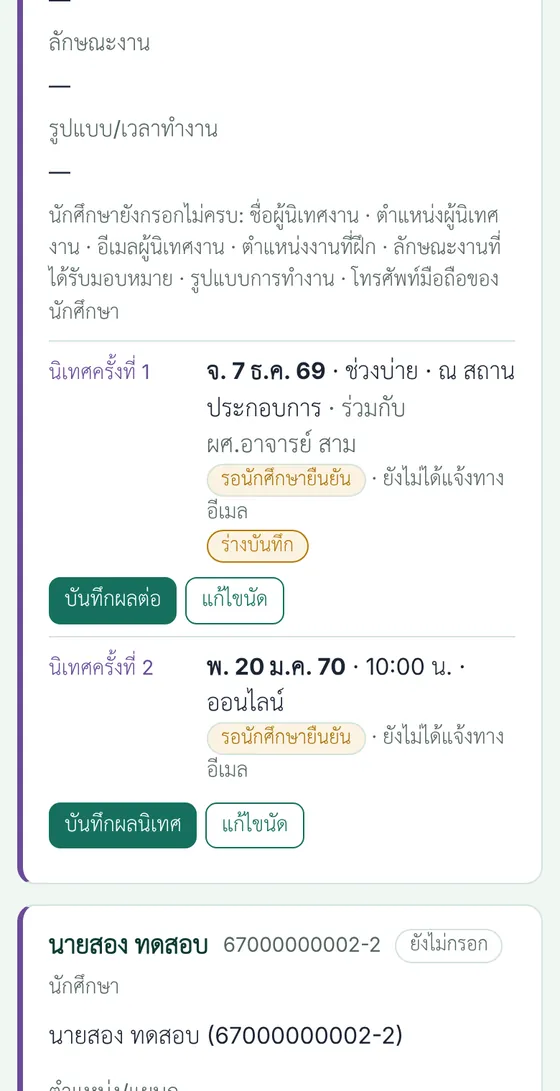
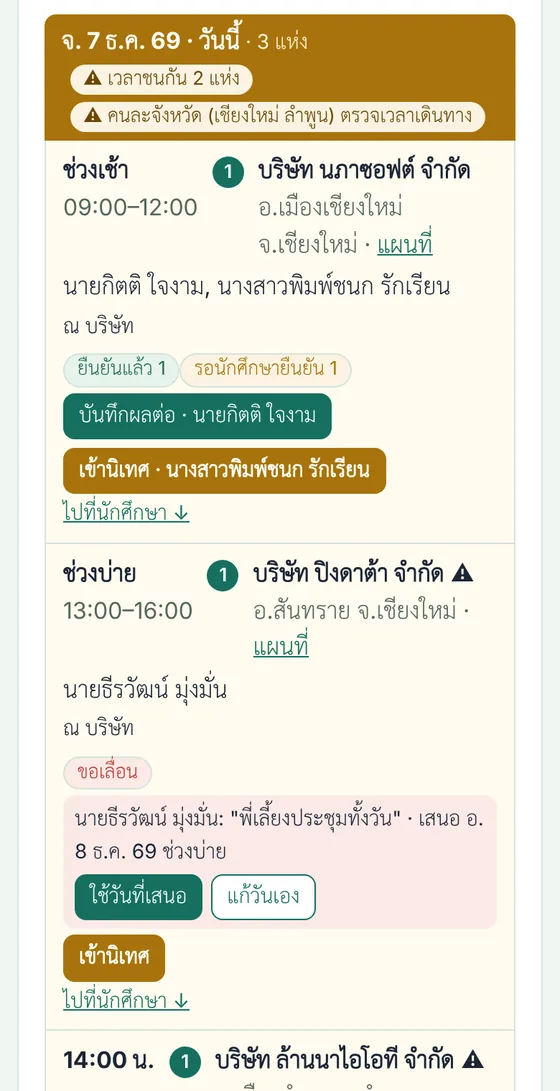
se-coop: คู่มือฉบับ 1.7 แผนนิเทศ 2 ครั้ง ตารางนิเทศ เตือนล่วงหน้า (ระบบ v1.4)
- คู่มืออาจารย์: รับนิเทศแล้วกำหนดวันทั้ง 2 ครั้งทันที, ยกเลิกรับนิเทศ
  (นักศึกษากลับไปรอ), ตารางนิเทศของฉัน รายการ/ปฏิทิน, คำเตือนนัดชน
  และต่างจังหวัด, แผนแจ้งทางอีเมลภายหลัง, ใช้วันที่นักศึกษาเสนอ,
  อีเมลเตือนล่วงหน้า 1 วัน, ปุ่ม "เข้านิเทศ" วันนิเทศ
- คู่มือการนิเทศ: ปุ่มของนัดเปลี่ยนตามวัน
- คู่มือนักศึกษา: เห็นวันนิเทศทั้ง 2 ครั้ง ป้าย "แผน อาจเปลี่ยน"
  ขอเลื่อนพร้อมเสนอวัน อีเมลเตือนล่วงหน้า
- ภาพใหม่ t11–t14 s9 และ t1 ใหม่ (ข้อมูลสมมติ) · ประวัติฉบับ 1.7 · ประกาศ

Claude-Session: https://claude.ai/code/session_01Hdhy4ZQDkcgj21GPA4PsBw

diff --git a/se-coop/teacher/index.html b/se-coop/teacher/index.html
@@ -39,24 +39,34 @@
       <li><h3>เข้าระบบ</h3><div class="when">อีเมล @rmutl.ac.th ที่หลักสูตรลงทะเบียนไว้</div>
         <ul><li>กรอกอีเมลที่หน้าเข้าระบบ ระบบส่งลิงก์ทางอีเมล ไม่ต้องใช้รหัสผ่าน เครื่องเดิมจำการเข้าระบบไว้ 14 วัน</li></ul></li>
       <li><h3>เลือกนักศึกษาที่จะนิเทศ</h3><div class="when">ภายใน 11 พ.ย. 2569</div>
-        <ul><li>แท็บ "เลือกนักศึกษา" แสดงนักศึกษาทุกคนจัดกลุ่มตามสถานประกอบการ กด "รับนิเทศ" แล้วยืนยัน หรือ "รับทั้งบริษัท"</li><li>ปุ่ม "รับนิเทศ" เป็นสีเขียวเมื่อนักศึกษากรอกข้อมูลครบแล้ว ถ้ายังไม่ครบ ปุ่มเป็นสีเทาและขึ้น "รอนักศึกษากรอกข้อมูล" ปุ่ม "รับทั้งบริษัท" เป็นสีเขียวเมื่อทุกคนในบริษัทนั้นกรอกครบ กด "รีเฟรชสถานะล่าสุด" เพื่อดูสถานะใหม่ ถ้าจำเป็นต้องรับก่อน ให้ผู้ประสานงานกำหนดให้</li><li>เมื่อยืนยันแล้ว อาจารย์ท่านอื่นเลือกคนนั้นไม่ได้ ท่านยกเลิกได้เอง หรือให้ผู้ประสานงานเปลี่ยนให้ นักศึกษาจะได้อีเมลแจ้งทุกครั้งที่รับ เปลี่ยน หรือยกเลิกอาจารย์นิเทศ</li><li>ชื่อ รหัส และบริษัทเห็นได้ทุกคน เบอร์โทรและ LINE ขึ้นข้างชื่อเฉพาะนักศึกษาที่ท่านรับนิเทศแล้ว แตะเพื่อโทรหรือเปิด LINE ได้ทันที</li></ul></li>
-      <li><h3>กรอกวันนิเทศทั้ง 2 ครั้ง</h3><div class="when">ภายใน 11 พ.ย. 2569 · ครั้งที่ 1: 1–30 ธ.ค. 2569 · ครั้งที่ 2: 4 ม.ค. – 26 ก.พ. 2570</div>
-        <ul><li>แท็บ "นักศึกษาของฉัน" กด "กำหนดวัน" เลือกวันที่ ช่วงเวลา (เช้า บ่าย หรือระบุเวลา) และรูปแบบ (ณ สถานประกอบการ หรือออนไลน์)</li><li>ติ๊ก "ใช้วันเดียวกันกับ" เพื่อกรอกครั้งเดียวสำหรับนักศึกษาทุกคนที่ท่านนิเทศในบริษัทเดียวกัน</li><li>มีอาจารย์ไปด้วย เลือก "อาจารย์ร่วมนิเทศ" ชื่อจะอยู่ในแผนการนิเทศ (อาจารย์นิเทศ 2) และตารางคำสั่ง</li><li>คณะขอแผนทั้ง 2 รอบ ครั้งที่ 2 เลือกนิเทศออนไลน์ได้ถ้าเหมาะสม วันนอกรอบที่คณะกำหนดต้องติ๊กยืนยันและเขียนเหตุผล</li></ul></li>
-      <li><h3>แจ้งนัดและรอนักศึกษายืนยัน</h3><div class="when">ติ๊ก "ส่งอีเมลแจ้ง" เมื่อนัดจริง</div>
-        <ul><li>ช่อง "ส่งอีเมลแจ้งนักศึกษาและผู้นิเทศงานทันที" ติ๊กไว้ให้แล้ว ถ้ายังเป็นแค่แผนส่งคณะ ยังไม่ได้คุยกับบริษัท ให้เอาเครื่องหมายออก แล้วค่อยติ๊กเมื่อนัดจริง</li><li>อีเมลแนบไฟล์ปฏิทิน (.ics) ผู้นิเทศงานคนเดียวกันได้ฉบับเดียว ท่านได้สำเนา และเมื่อผู้รับกดตอบกลับ อีเมลจะถึงท่านโดยตรง ระบบส่งซ้ำเฉพาะเมื่อวันเวลาเปลี่ยน และแจ้งยกเลิกเมื่อลบนัด</li><li>นักศึกษาถามผู้นิเทศงานแล้วกด "สะดวกตามนี้" หรือ "ขอเลื่อน" พร้อมเหตุผล ท่านจะได้อีเมลทั้งสองกรณี ถ้าขอเลื่อนจะเห็นในหน้าสิ่งที่ต้องทำด้วย แก้วันแล้วระบบแจ้งทุกคนใหม่</li><li>ท่านได้อีเมลเมื่อนักศึกษาแก้เบอร์โทร LINE หรือข้อมูลผู้นิเทศงาน และเมื่อนักศึกษาแจ้งปัญหาการฝึก (ส่งสำเนาถึงผู้ประสานงาน)</li><li>ติดต่อนักศึกษาจากเบอร์โทรและ LINE ข้างชื่อในแท็บ "นักศึกษาของฉัน" (ถ้านักศึกษากรอก)</li></ul></li>
+        <ul><li>แท็บ "เลือกนักศึกษา" แสดงนักศึกษาทุกคนจัดกลุ่มตามสถานประกอบการ พร้อมวันนิเทศครั้งที่ 1 และ 2 กด "รับนิเทศ" แล้วยืนยัน หรือ "รับทั้งบริษัท"</li><li>ปุ่ม "รับนิเทศ" เป็นสีเขียวเมื่อนักศึกษากรอกข้อมูลครบแล้ว ถ้ายังไม่ครบ ปุ่มเป็นสีเทาและขึ้น "รอนักศึกษากรอกข้อมูล" ปุ่ม "รับทั้งบริษัท" เป็นสีเขียวเมื่อทุกคนในบริษัทนั้นกรอกครบ กด "รีเฟรชสถานะล่าสุด" เพื่อดูสถานะใหม่ ถ้าจำเป็นต้องรับก่อน ให้ผู้ประสานงานกำหนดให้</li><li>ยืนยันแล้วระบบแจ้งนักศึกษาทางอีเมล และ<b>พาไปแท็บ "นักศึกษาของฉัน" ที่บริษัทนั้น พร้อมเปิดฟอร์มกำหนดวันนิเทศทั้ง 2 ครั้ง</b> (ภาพที่ 1) อาจารย์ท่านอื่นเลือกคนนั้นไม่ได้</li><li>ชื่อ รหัส บริษัท และวันนิเทศเห็นได้ทุกคน เบอร์โทรและ LINE ขึ้นข้างชื่อเฉพาะนักศึกษาที่ท่านรับนิเทศแล้ว แตะเพื่อโทรหรือเปิด LINE ได้ทันที</li></ul></li>
+      <li><h3>กดผิดหรือไปนิเทศไม่ได้: ยกเลิกรับนิเทศ</h3><div class="when">นักศึกษากลับไปรออาจารย์ท่านอื่น</div>
+        <ul><li>กด "กดผิด? ยกเลิกรับนิเทศ" ที่ขึ้นหลังรับ หรือ "ยกเลิกรับนิเทศ" ในแท็บเลือกนักศึกษา หรือใต้ "งาน ผู้นิเทศงาน และวันที่สะดวก" ของนักศึกษา แล้วยืนยัน</li><li>ระบบล้างวันนิเทศที่ท่านกรอกไว้ แจ้งนักศึกษาทางอีเมล และแจ้งยกเลิกถึงผู้นิเทศงานถ้าเคยส่งนัดไปแล้ว นักศึกษากลับไปรอ อาจารย์ท่านอื่นรับแทนแล้วนัดใหม่ตามขั้นตอนเดิม</li><li>ถ้าบันทึกผลการนิเทศของนักศึกษาคนนั้นแล้ว ยกเลิกเองไม่ได้ ติดต่อผู้ประสานงาน (บันทึกไม่หาย)</li></ul></li>
+      <li><h3>กรอกวันนิเทศทั้ง 2 ครั้ง</h3><div class="when">ภายใน 11 พ.ย. 2569 · ครั้งที่ 1: 1–30 ธ.ค. 2569 · ครั้งที่ 2: 4 ม.ค. – 26 ก.พ. 2570 · ภาพที่ 1–2</div>
+        <ul><li>ฟอร์มกำหนดวันมีครั้งที่ 1 และ 2 ในหน้าเดียว เลือกวันที่ ช่วงเวลา (เช้า บ่าย หรือระบุเวลา) และรูปแบบ (ณ สถานประกอบการ หรือออนไลน์) แล้วกด "บันทึกวันนิเทศ" ครั้งเดียว เปิดฟอร์มอีกครั้งได้จากปุ่ม "กำหนดวันนิเทศ 2 ครั้ง" หรือ "แก้วันนิเทศ" ที่หัวบริษัท</li><li><b>ครั้งที่ 1 ต้องกรอก ครั้งที่ 2 กรอกตามแผนไว้ก่อน</b> เพราะคณะใช้แผนทั้ง 2 ครั้งตั้งงบและออกคำสั่ง ไม่ต้องรอนักศึกษายืนยัน เปลี่ยนวันภายหลังได้ ถ้ายังเว้นครั้งที่ 2 ระบบเตือนในสิ่งที่ต้องทำ</li><li>แตะปุ่มวันในสัปดาห์เพื่อเลือกเร็ว ปุ่มสีเหลืองคือวันที่ท่านมีนัดแล้ว ระบบเตือนเมื่อช่วงเวลาชนกับบริษัทอื่น หรือวันเดียวกันอยู่คนละจังหวัด (บันทึกได้ถ้าตั้งใจ) กล่องสีม่วงคือวันที่นักศึกษาแจ้งว่าสะดวก</li><li>ติ๊ก "ใช้กับ" เพื่อใช้วันเดียวกันกับนักศึกษาทุกคนที่ท่านนิเทศในบริษัทเดียวกัน</li><li>มีอาจารย์ไปด้วย เลือก "อาจารย์ร่วมนิเทศ" ชื่อจะอยู่ในแผนการนิเทศ (อาจารย์นิเทศ 2) และตารางคำสั่ง และนัดจะขึ้นในตารางนิเทศของท่านนั้นด้วย</li><li>ครั้งที่ 2 เลือกนิเทศออนไลน์ได้ถ้าเหมาะสม วันนอกรอบที่คณะกำหนดต้องติ๊กยืนยันและเขียนเหตุผล</li></ul></li>
+      <li><h3>ดูตารางนิเทศของฉัน</h3><div class="when">บนสุดของแท็บ "นักศึกษาของฉัน" · ภาพที่ 3–4</div>
+        <ul><li>ตารางเรียงตามวัน บอกเวลา บริษัท อำเภอและจังหวัด นักศึกษา รูปแบบ และสถานะ รวมนัดที่ท่านเป็นอาจารย์ร่วมนิเทศ ใช้วางแผนไปหลายบริษัทในวันเดียว เช่น เช้าบริษัทหนึ่ง บ่ายอีกบริษัท หรือวันที่ต้องไปต่างจังหวัด</li><li>เลือกดูทั้งหมด ครั้งที่ 1 หรือครั้งที่ 2 และสลับเป็น "ปฏิทิน" รายเดือน แตะวันเพื่อดูรายละเอียด วันสีเทาอยู่นอกช่วงที่คณะกำหนด</li><li>สถานะนัด: <b>แผน (ยังไม่แจ้ง)</b> · <b>รอนักศึกษายืนยัน</b> · <b>ยืนยันแล้ว</b> · <b>ขอเลื่อน</b> · <b>เปลี่ยนวันแล้ว ยังไม่แจ้ง</b> · <b>นิเทศแล้ว</b> รายการที่ยังไม่กำหนดวันอยู่ท้ายตาราง</li></ul></li>
+      <li><h3>แจ้งนัดและรอนักศึกษายืนยัน</h3><div class="when">ส่งอีเมลเมื่อนัดกับบริษัทแล้ว</div>
+        <ul><li>ค่าเริ่มต้น ครั้งที่ 1 ติ๊ก "ส่งอีเมลแจ้งนัดถึงนักศึกษาและผู้นิเทศงานทันที" ไว้ ครั้งที่ 2 เป็นแผน (ไม่ส่ง) นักศึกษาเห็นในระบบเป็น "แผน อาจเปลี่ยน" เมื่อยืนยันกับบริษัทแล้วกด <b>"แจ้งนัดทางอีเมล"</b> ในตารางหรือใต้นัด ถ้ายังไม่ได้คุยกับบริษัท ให้เอาเครื่องหมายครั้งที่ 1 ออกได้</li><li>อีเมลแนบไฟล์ปฏิทิน (.ics) ผู้นิเทศงานคนเดียวกันได้ฉบับเดียว ท่านได้สำเนา และเมื่อผู้รับกดตอบกลับ อีเมลจะถึงท่านโดยตรง ระบบส่งซ้ำเฉพาะเมื่อวันเวลาเปลี่ยน และแจ้งยกเลิกเมื่อลบนัด</li><li>นักศึกษาถามผู้นิเทศงานแล้วกด "สะดวกตามนี้" หรือ "ขอเลื่อน" พร้อมเหตุผล และเสนอวันที่ผู้นิเทศงานสะดวกได้ ท่านได้อีเมลทั้งสองกรณี ถ้าเสนอวันมา กด <b>"ใช้วันที่เสนอ"</b> ระบบเปลี่ยนวันและแจ้งนักศึกษากับผู้นิเทศงานให้ หรือกด "แก้วันเอง"</li><li>ท่านได้อีเมลเมื่อนักศึกษาแก้เบอร์โทร LINE หรือข้อมูลผู้นิเทศงาน และเมื่อนักศึกษาแจ้งปัญหาการฝึก (ส่งสำเนาถึงผู้ประสานงาน)</li><li>ติดต่อนักศึกษาจากเบอร์โทรและ LINE ข้างชื่อในแท็บ "นักศึกษาของฉัน" (ถ้านักศึกษากรอก)</li></ul></li>
+      <li><h3>อีเมลเตือนล่วงหน้า 1 วัน</h3><div class="when">ระบบส่งเองทุกวันประมาณ 16:00 น.</div>
+        <ul><li>ก่อนวันนิเทศ 1 วัน ระบบส่งอีเมลเตือนถึงนักศึกษาและผู้นิเทศงาน (เฉพาะนัดที่แจ้งทางอีเมลแล้ว) และส่งสรุปนัดของวันพรุ่งนี้ถึงท่าน พร้อมแผนที่ เบอร์นักศึกษา และผู้นิเทศงาน</li><li>นัดที่ยังเป็นแผนเตือนเฉพาะท่าน นัดที่นักศึกษาขอเลื่อนอยู่ เลื่อนไปแล้ว หรือลบแล้ว ระบบไม่เตือน</li></ul></li>
       <li><h3>เอกสารส่งคณะ</h3><div class="when">ผู้ประสานงานส่งคณะ 12 พ.ย. 2569</div>
         <ul><li>ระบบสร้างแผนการนิเทศตามตารางของคณะ (Excel) แบบเสนองบประมาณการนิเทศ (Word) และตารางแนบท้ายคำสั่งแต่งตั้ง จากข้อมูลในระบบโดยตรง ไม่ต้องกรอก Google Form</li><li>งบประมาณคิดจากการนิเทศ ณ สถานประกอบการ: ในเขตอำเภอเมืองเชียงใหม่เบิกค่ารถโดยสาร นอกเขตเบิกค่าชดเชยน้ำมันตามระยะทาง ผู้ประสานงานจะขอหมายเลขทะเบียนรถจากอาจารย์ที่ขับรถไปนิเทศนอกเขต</li><li>เอกสารมีชื่ออาจารย์ นักศึกษา บริษัท และวันนิเทศ ไม่มีเบอร์หรืออีเมล</li></ul></li>
-      <li><h3>บันทึกผลการนิเทศ</h3><div class="when">ระหว่างนิเทศหรือภายใน 3 วันหลังนิเทศ · ภาพที่ 1–3</div>
-        <ul><li>แท็บ "นักศึกษาของฉัน" กด "บันทึกผลนิเทศ" แบบบันทึกมี 5 ส่วน: ก รูป ไฟล์ ลิงก์ · ข คุยกับนักศึกษา · ค คุยกับผู้นิเทศงาน (แตะคะแนน 7 ด้าน) · ง อาจารย์สรุป · จ คะแนนการนิเทศ 5 ข้อ</li><li>ส่วนใหญ่แตะเลือก ไม่มีในรายการพิมพ์เพิ่มเองได้ กด "บันทึกร่าง" ไว้ก่อนได้ กด "บันทึกเสร็จ" เมื่อช่องบังคับครบ แก้ได้จนปิดภาค</li><li>นิเทศหลายคนบริษัทเดียวกัน ติ๊กชื่อเพื่อนท้ายแบบบันทึก รูปและความเห็นของบริษัทจะใช้ร่วมกัน</li><li>ขั้นตอนเต็ม คำถามที่ใช้คุย และใครเห็นอะไร อยู่ใน<a href="visit.html">คู่มือการนิเทศและแบบบันทึก</a></li></ul></li>
+      <li><h3>บันทึกผลการนิเทศ</h3><div class="when">ระหว่างนิเทศหรือภายใน 3 วันหลังนิเทศ · ภาพที่ 5–7</div>
+        <ul><li>วันนิเทศ ปุ่มใต้นัดและในตารางนิเทศเป็น <b>"เข้านิเทศ"</b> (สีทอง) กดเพื่อดูคำถามและกรอกแบบบันทึกระหว่างคุย หรือมากรอกภายหลัง (ภาพที่ 5) ก่อนวันนิเทศปุ่มเป็น "ดูคำถาม/แบบบันทึก" หลังวันเป็น "บันทึกผลนิเทศ" ผู้ประสานงานเห็นว่าอาจารย์ท่านใดส่งบันทึกแล้ว</li><li>แบบบันทึกมี 5 ส่วน: ก รูป ไฟล์ ลิงก์ · ข คุยกับนักศึกษา · ค คุยกับผู้นิเทศงาน (แตะคะแนน 7 ด้าน) · ง อาจารย์สรุป · จ คะแนนการนิเทศ 5 ข้อ</li><li>ส่วนใหญ่แตะเลือก ไม่มีในรายการพิมพ์เพิ่มเองได้ กด "บันทึกร่าง" ไว้ก่อนได้ กด "บันทึกเสร็จ" เมื่อช่องบังคับครบ แก้ได้จนปิดภาค</li><li>นิเทศหลายคนบริษัทเดียวกัน ติ๊กชื่อเพื่อนท้ายแบบบันทึก รูปและความเห็นของบริษัทจะใช้ร่วมกัน</li><li>ขั้นตอนเต็ม คำถามที่ใช้คุย และใครเห็นอะไร อยู่ใน<a href="visit.html">คู่มือการนิเทศและแบบบันทึก</a></li></ul></li>
       <li><h3>ดูผลการนิเทศของทุกคน</h3><div class="when">แท็บ "ผลการนิเทศ"</div>
         <ul><li>อาจารย์ทุกท่านดูผลการนิเทศ รูป และไฟล์ของนักศึกษาทุกคนได้ เพื่อเรียนรู้จากกันและปรับปรุงหลักสูตร (ไม่มีข้อมูลติดต่อและบันทึกลับ)</li><li>ผู้ประสานงานส่งออกผลการนิเทศเป็น Excel สำหรับรายงาน AUN-QA</li></ul></li>
     </ol>
-    <p class="small muted">ภาพตัวอย่างใช้ข้อมูลสมมติ ภาพเพิ่มเติมอยู่ในคู่มือการนิเทศ</p>
+    <p class="small muted">ภาพตัวอย่างใช้ข้อมูลสมมติ (ชื่อ บริษัท เบอร์โทร) ภาพแบบบันทึกเพิ่มเติมอยู่ในคู่มือการนิเทศ</p>
     <div class="shots" tabindex="0" aria-label="ภาพหน้าจอตัวอย่าง">
-      <figure><img src="../assets/img/guide/t1-mine.webp" width="560" height="1091" loading="lazy" alt="การ์ดนักศึกษามีปุ่มบันทึกผลนิเทศใต้นัด"><figcaption><b>1</b> กด "บันทึกผลนิเทศ"</figcaption></figure>
-      <figure><img src="../assets/img/guide/t3-photos.webp" width="560" height="1091" loading="lazy" alt="ส่วน ก ถ่ายรูป แนบไฟล์ และใส่ลิงก์"><figcaption><b>2</b> ถ่ายรูปจากมือถือ</figcaption></figure>
-      <figure><img src="../assets/img/guide/t5-mentor.webp" width="560" height="1091" loading="lazy" alt="ส่วน ค แตะคะแนน 1 ถึง 5 จากผู้นิเทศงาน"><figcaption><b>3</b> แตะคะแนนจากพี่เลี้ยง</figcaption></figure>
-      <figure><img src="../assets/img/guide/t9-results.webp" width="560" height="1091" loading="lazy" alt="แท็บผลการนิเทศ"><figcaption><b>4</b> แท็บผลการนิเทศ</figcaption></figure>
+      <figure><img src="../assets/img/guide/t12-plan.webp" width="560" height="1091" loading="lazy" alt="หลังรับนิเทศ ฟอร์มกำหนดวันนิเทศครั้งที่ 1 เปิดให้ทันที มีปุ่มกดผิดยกเลิกรับนิเทศ ช่องใช้กับเพื่อนบริษัทเดียวกัน และวันที่นักศึกษาสะดวก"><figcaption><b>1</b> รับแล้วกำหนดวันทันที</figcaption></figure>
+      <figure><img src="../assets/img/guide/t14-conflict.webp" width="560" height="1091" loading="lazy" alt="นิเทศครั้งที่ 2 ปุ่มวันในสัปดาห์ วันที่มีนัดแล้วเป็นสีเหลือง และคำเตือนว่าช่วงบ่ายชนกับอีกบริษัท"><figcaption><b>2</b> ครั้งที่ 2 และคำเตือนนัดชน</figcaption></figure>
+      <figure><img src="../assets/img/guide/t11-schedule.webp" width="560" height="1091" loading="lazy" alt="ตารางนิเทศของฉัน แสดงจำนวนที่กำหนดแล้ว และรายการเรียงตามวัน พร้อมคำเตือนคนละจังหวัด"><figcaption><b>3</b> ตารางนิเทศของฉัน</figcaption></figure>
+      <figure><img src="../assets/img/guide/t13-calendar.webp" width="560" height="1091" loading="lazy" alt="ตารางนิเทศแบบปฏิทินเดือนธันวาคม แตะวันที่ 7 แสดงนัดของวันนั้นด้านล่าง"><figcaption><b>4</b> มุมมองปฏิทิน</figcaption></figure>
+      <figure><img src="../assets/img/guide/t1-mine.webp" width="560" height="1091" loading="lazy" alt="วันนิเทศ ตารางแสดงปุ่มเข้านิเทศสีทองของนักศึกษาแต่ละคน"><figcaption><b>5</b> วันนิเทศ กด "เข้านิเทศ"</figcaption></figure>
+      <figure><img src="../assets/img/guide/t3-photos.webp" width="560" height="1091" loading="lazy" alt="ส่วน ก ถ่ายรูป แนบไฟล์ และใส่ลิงก์"><figcaption><b>6</b> ถ่ายรูปจากมือถือ</figcaption></figure>
+      <figure><img src="../assets/img/guide/t5-mentor.webp" width="560" height="1091" loading="lazy" alt="ส่วน ค แตะคะแนน 1 ถึง 5 จากผู้นิเทศงาน"><figcaption><b>7</b> แตะคะแนนจากพี่เลี้ยง</figcaption></figure>
+      <figure><img src="../assets/img/guide/t9-results.webp" width="560" height="1091" loading="lazy" alt="แท็บผลการนิเทศ"><figcaption><b>8</b> แท็บผลการนิเทศ</figcaption></figure>
     </div>
 
     <h2>ในวันนิเทศ</h2>

diff --git a/se-coop/student/index.html b/se-coop/student/index.html
@@ -65,7 +65,7 @@
       <li><h3>ติ๊กยินยอม แล้วกด "บันทึก"</h3><div class="when">ภาพที่ 5</div>
         <ul><li>ต้องติ๊กช่องรับทราบการคุ้มครองข้อมูลส่วนบุคคลก่อนจึงบันทึกได้</li><li>บันทึกแบบยังไม่ครบได้ กลับมากรอกต่อได้ทุกเมื่อ ถ้ามีช่องผิดรูปแบบ ระบบจะบอกด้วยตัวอักษรสีแดง</li></ul></li>
       <li><h3>ตรวจว่าขึ้น "ข้อมูลครบแล้ว"</h3><div class="when">ภาพที่ 6</div>
-        <ul><li>เมื่อครบ ช่อง "สิ่งที่ต้องทำ" จะขึ้นป้ายสีเขียว "เรียบร้อย" เท่านี้ก็เสร็จงานของตอนนี้</li><li>อาจารย์เลือกรับนิเทศได้เฉพาะนักศึกษาที่ข้อมูลครบแล้ว เมื่อมีอาจารย์รับ เปลี่ยน หรือยกเลิก คุณจะได้อีเมลแจ้ง</li><li>ชื่ออาจารย์นิเทศและวันนิเทศจะแสดงในหน้าเดียวกันเมื่ออาจารย์กรอกแล้ว กด "รีเฟรช" ในกล่องอาจารย์นิเทศและกำหนดการเพื่อดูข้อมูลล่าสุด</li></ul></li>
+        <ul><li>เมื่อครบ ช่อง "สิ่งที่ต้องทำ" จะขึ้นป้ายสีเขียว "เรียบร้อย" เท่านี้ก็เสร็จงานของตอนนี้</li><li>อาจารย์เลือกรับนิเทศได้เฉพาะนักศึกษาที่ข้อมูลครบแล้ว เมื่อมีอาจารย์รับ เปลี่ยน หรือยกเลิก คุณจะได้อีเมลแจ้ง</li><li>ชื่ออาจารย์นิเทศและวันนิเทศทั้ง 2 ครั้งจะแสดงในหน้าเดียวกันเมื่ออาจารย์กรอกแล้ว กด "รีเฟรช" ในกล่องอาจารย์นิเทศและกำหนดการเพื่อดูข้อมูลล่าสุด ถ้าอาจารย์ยกเลิกรับนิเทศ คุณจะได้อีเมลและรออาจารย์ท่านอื่นรับแทน</li></ul></li>
     </ol>
     <p class="small muted">ภาพตัวอย่างใช้ข้อมูลสมมติ เลื่อนดูภาพถัดไปได้</p>
     <div class="shots" tabindex="0" aria-label="ภาพหน้าจอตัวอย่าง">
@@ -83,7 +83,7 @@
       <li><h3>เริ่มฝึกและกรอกข้อมูล</h3><div class="when">2–11 พ.ย. 2569 · สัปดาห์ที่ 1–2</div>
         <ul><li>กรอกข้อมูลการฝึกใน SE-COOP ให้ครบภายใน 11 พ.ย.</li><li>เริ่มจดบันทึกสั้น ๆ ทุกสัปดาห์: งานที่ทำ เทคโนโลยีที่ใช้ ปัญหาและวิธีแก้ และเก็บภาพหน้าจอผลงานที่บริษัทอนุญาต ใช้ทำรายงานและโปสเตอร์ปลายภาค</li></ul></li>
       <li><h3>อาจารย์นัดนิเทศ ยืนยันหรือขอเลื่อน</h3><div class="when">12–30 พ.ย. 2569 · สัปดาห์ที่ 2–4</div>
-        <ul><li>เมื่ออาจารย์นัดแล้ว คุณและผู้นิเทศงานจะได้อีเมล "[SE-COOP] นัดนิเทศ" พร้อมไฟล์ปฏิทิน และเห็นนัดในระบบ SE-COOP</li><li>ถามผู้นิเทศงานว่าสะดวกไหม แล้วเข้าระบบกด <b>"สะดวกตามนี้"</b> หรือ <b>"ขอเลื่อน"</b> พร้อมเหตุผลและวันที่สะดวก ระบบส่งอีเมลถึงอาจารย์ทั้งสองกรณี แจ้งอาจารย์ทาง LINE ด้วยก็ได้</li><li>อาจารย์แก้วันแล้วระบบจะแจ้งใหม่ ให้กดยืนยันอีกครั้ง</li><li>ถ้าข้อมูลเปลี่ยน เช่น ย้ายทีม เปลี่ยนพี่เลี้ยง ทำงานทางไกล ให้แก้ในระบบ เมื่อแก้เบอร์โทร LINE หรือข้อมูลผู้นิเทศงาน ระบบแจ้งอาจารย์นิเทศทางอีเมลให้</li></ul></li>
+        <ul><li>อาจารย์กรอกวันนิเทศทั้ง 2 ครั้งตามแผนที่ส่งคณะ คุณเห็นทั้ง 2 ครั้งในระบบ ครั้งที่ยังไม่ได้นัดกับบริษัทจะมีป้าย <b>"แผน อาจเปลี่ยน"</b> (ภาพที่ 9)</li><li>เมื่ออาจารย์นัดจริง คุณและผู้นิเทศงานจะได้อีเมล "[SE-COOP] นัดนิเทศ" พร้อมไฟล์ปฏิทิน และป้ายเปลี่ยนเป็น "นัดแล้ว รอคุณยืนยัน"</li><li>ถามผู้นิเทศงานว่าสะดวกไหม แล้วเข้าระบบกด <b>"สะดวกตามนี้"</b> หรือ <b>"ขอเลื่อน"</b> ขอเลื่อนให้เลือกวันและช่วงเวลาที่ผู้นิเทศงานสะดวก (ถ้ามี) และเขียนเหตุผล อาจารย์กด "ใช้วันที่เสนอ" ได้ทันที ระบบส่งอีเมลถึงอาจารย์ทุกครั้ง แจ้งอาจารย์ทาง LINE ด้วยก็ได้</li><li>อาจารย์แก้วันแล้วระบบจะแจ้งใหม่ ให้กดยืนยันอีกครั้ง · ก่อนวันนิเทศ 1 วัน คุณและผู้นิเทศงานจะได้อีเมลเตือน</li><li>ถ้าข้อมูลเปลี่ยน เช่น ย้ายทีม เปลี่ยนพี่เลี้ยง ทำงานทางไกล ให้แก้ในระบบ เมื่อแก้เบอร์โทร LINE หรือข้อมูลผู้นิเทศงาน ระบบแจ้งอาจารย์นิเทศทางอีเมลให้</li></ul></li>
       <li><h3>นิเทศครั้งที่ 1</h3><div class="when">1–30 ธ.ค. 2569 · สัปดาห์ที่ 5–9 · มีคะแนน 20%</div>
         <ul><li>เตรียมเล่างาน 10 นาที (สไลด์ 3–5 หน้า หรือเปิดงานจริงถ้าบริษัทอนุญาต): บริษัททำอะไร งานและบทบาทของคุณ เทคโนโลยีและความรู้จากหลักสูตรที่ได้ใช้ สิ่งที่ทำเสร็จแล้วเทียบกับแผน ปัญหาจริง 1–2 เรื่องและวิธีแก้ อาจารย์ให้คะแนนตาม<a href="../grading.html#visit">เกณฑ์ 5 ข้อนี้</a></li><li>นัดผู้นิเทศงานให้มีเวลาคุยกับอาจารย์ประมาณ 15 นาที อาจารย์จะขออนุญาตถ่ายรูปในที่ทำงาน</li><li>นิเทศออนไลน์: เตรียมลิงก์ประชุม ห้องที่เงียบ และเปิดกล้อง</li><li>หลังนิเทศ อาจารย์บันทึกคำแนะนำในระบบ คุณจะเห็นกล่อง <b>"คำแนะนำจากอาจารย์นิเทศ"</b> ในหน้าแรกของ SE-COOP (ภาพที่ 7) นำไปปรับใช้และเล่าในรายงาน</li></ul></li>
       <li><h3>ระหว่างการฝึก</h3><div class="when">ตลอดภาค</div>
@@ -112,9 +112,10 @@
       <li>หน้าแรกของ SE-COOP มีกล่อง <b>"ทำอย่างไรจึงผ่าน (S)"</b> แสดงเช็กลิสต์กิจกรรมบังคับว่าข้อใดเรียบร้อยแล้ว และสัดส่วนคะแนนของคุณ (ภาพที่ 8)</li>
       <li>นักศึกษาไม่เห็นคะแนนจนประกาศผล แต่เห็นเกณฑ์ทุกข้อล่วงหน้าใน<a href="../grading.html">เกณฑ์การวัดผลฉบับเต็ม</a></li>
     </ul>
-    <div class="shots" tabindex="0" aria-label="ภาพหน้าจอตัวอย่างหลังนิเทศ">
+    <div class="shots" tabindex="0" aria-label="ภาพหน้าจอตัวอย่างหลังนิเทศและการยืนยันนัด">
       <figure><img src="../assets/img/guide/s7-advice.webp" width="560" height="1091" loading="lazy" alt="หน้าแรกของนักศึกษา กล่องคำแนะนำจากอาจารย์นิเทศครั้งที่ 1"><figcaption><b>7</b> คำแนะนำจากอาจารย์นิเทศ</figcaption></figure>
       <figure><img src="../assets/img/guide/s8-pass.webp" width="560" height="1091" loading="lazy" alt="กล่องทำอย่างไรจึงผ่าน เช็กลิสต์กิจกรรมบังคับและสัดส่วนคะแนน"><figcaption><b>8</b> เช็กลิสต์และสัดส่วนคะแนน</figcaption></figure>
+      <figure><img src="../assets/img/guide/s9-visits.webp" width="560" height="1091" loading="lazy" alt="กล่องอาจารย์นิเทศและกำหนดการ นิเทศครั้งที่ 1 นัดแล้วรอยืนยัน มีปุ่มสะดวกตามนี้และฟอร์มขอเลื่อนพร้อมเสนอวัน ครั้งที่ 2 เป็นแผนอาจเปลี่ยน"><figcaption><b>9</b> ยืนยันหรือขอเลื่อนพร้อมเสนอวัน</figcaption></figure>
     </div>
 
     <h2 id="faq">ปัญหาที่พบบ่อย</h2>

diff --git a/se-coop/teacher/visit.html b/se-coop/teacher/visit.html
@@ -28,7 +28,7 @@
   <div class="prose">
     <div class="now" style="margin-top:0">
       <p class="now-h">แบบบันทึกการนิเทศเปิดใช้ในระบบ SE-COOP แล้ว</p>
-      <p>แท็บ <b>"นักศึกษาของฉัน"</b> กด <b>"บันทึกผลนิเทศ"</b> ใต้นัดแต่ละครั้ง ถ่ายรูปจากมือถือได้ทันที กด "บันทึกร่าง" ไว้ก่อนได้ แล้วกด <b>"บันทึกเสร็จ"</b> เมื่อช่องบังคับครบ คะแนนการนิเทศ (ส่วน จ) ใช้คิดผลการเรียนของนักศึกษา</p>
+      <p>วันนิเทศ แท็บ <b>"นักศึกษาของฉัน"</b> กด <b>"เข้านิเทศ"</b> ในตารางนิเทศหรือใต้นัด (หลังวันนิเทศปุ่มเป็น "บันทึกผลนิเทศ") ถ่ายรูปจากมือถือได้ทันที กด "บันทึกร่าง" ไว้ก่อนได้ แล้วกด <b>"บันทึกเสร็จ"</b> เมื่อช่องบังคับครบ คะแนนการนิเทศ (ส่วน จ) ใช้คิดผลการเรียนของนักศึกษา</p>
       <div class="cta"><span data-c="secoop"></span><a class="btn btn-ghost" href="#steps">ดูขั้นตอนพร้อมภาพ</a><a class="btn btn-ghost" href="#questions">คำถามที่ใช้คุย</a></div>
     </div>
 
@@ -62,7 +62,7 @@
     <h2 id="steps">บันทึกผลการนิเทศในระบบ</h2>
     <ol class="steps">
       <li><h3>เปิดแบบบันทึก</h3><div class="when">ภาพที่ 1</div>
-        <ul><li>แท็บ "นักศึกษาของฉัน" กด <b>"บันทึกผลนิเทศ"</b> ใต้นัดครั้งที่ต้องการ ถ้ามีร่างแล้วปุ่มเป็น "บันทึกผลต่อ" ถ้าบันทึกเสร็จแล้วเป็น "ดู/แก้บันทึกผล"</li><li>ปุ่ม "แก้ไขนัด" ข้าง ๆ ใช้แก้วันนัดเหมือนเดิม</li></ul></li>
+        <ul><li>แท็บ "นักศึกษาของฉัน" ปุ่มของนัดเปลี่ยนตามวัน: ก่อนวันนิเทศ "ดูคำถาม/แบบบันทึก" · <b>วันนิเทศ "เข้านิเทศ"</b> (สีทอง ทั้งในตารางนิเทศของฉันและใต้นัด) · หลังวัน "บันทึกผลนิเทศ" · มีร่างแล้ว "บันทึกผลต่อ" · บันทึกเสร็จแล้ว "ดู/แก้บันทึกผล"</li><li>วันก่อนนิเทศ ระบบส่งอีเมลสรุปนัดพรุ่งนี้ถึงท่าน พร้อมแผนที่และเบอร์ติดต่อ · แก้วันนัดได้ที่ปุ่ม "แก้วันนิเทศ" ที่หัวบริษัท</li></ul></li>
       <li><h3>ตรวจหัวแบบบันทึก</h3><div class="when">ภาพที่ 2</div>
         <ul><li>หัวแบบบันทึกแสดงนักศึกษา บริษัท ตำแหน่ง ผู้นิเทศงาน และนัด กล่องสีเหลืองบอกว่ายังขาดช่องบังคับใด ระบบนับให้ระหว่างกรอก</li><li>แต่ละส่วน (ก–จ) พับเก็บได้ กดที่หัวส่วน</li></ul></li>
       <li><h3>ส่วน ก: วันที่ รูปแบบ รูป ไฟล์ และลิงก์</h3><div class="when">ภาพที่ 3</div>
@@ -82,7 +82,7 @@
     </ol>
     <p class="small muted">ภาพตัวอย่างใช้ข้อมูลและรูปสมมติ เลื่อนดูภาพถัดไปได้</p>
     <div class="shots" tabindex="0" aria-label="ภาพหน้าจอตัวอย่างแบบบันทึกการนิเทศ">
-      <figure><img src="../assets/img/guide/t1-mine.webp" width="560" height="1091" loading="lazy" alt="การ์ดนักศึกษาในแท็บนักศึกษาของฉัน มีปุ่มบันทึกผลนิเทศใต้นัดแต่ละครั้ง"><figcaption><b>1</b> กด "บันทึกผลนิเทศ"</figcaption></figure>
+      <figure><img src="../assets/img/guide/t1-mine.webp" width="560" height="1091" loading="lazy" alt="วันนิเทศ ตารางนิเทศของฉันแสดงปุ่มเข้านิเทศสีทองของนักศึกษาแต่ละคน"><figcaption><b>1</b> กด "เข้านิเทศ"</figcaption></figure>
       <figure><img src="../assets/img/guide/t2-record.webp" width="560" height="1091" loading="lazy" alt="หัวแบบบันทึก แสดงนักศึกษา บริษัท ผู้นิเทศงาน นัด และกล่องช่องที่ยังขาด"><figcaption><b>2</b> หัวแบบบันทึกบอกสิ่งที่ยังขาด</figcaption></figure>
       <figure><img src="../assets/img/guide/t3-photos.webp" width="560" height="1091" loading="lazy" alt="ส่วน ก รูปถ่ายหลายรูป ปุ่มถ่ายรูปหรือเลือกรูป ไฟล์แนบ และลิงก์"><figcaption><b>3</b> ถ่ายรูป แนบไฟล์ ใส่ลิงก์</figcaption></figure>
       <figure><img src="../assets/img/guide/t4-student.webp" width="560" height="1091" loading="lazy" alt="ส่วน ข คำถามคุยกับนักศึกษา แตะเลือกบทบาทและเทคโนโลยี"><figcaption><b>4</b> แตะเลือกตามคำถาม</figcaption></figure>

diff --git a/se-coop/config.js b/se-coop/config.js
@@ -7,7 +7,7 @@
 // ===================================================================================
 window.SECOOP = {
   updated: '2026-11-09',
-  version: 'ฉบับ 1.6',
+  version: 'ฉบับ 1.7',
   term: {
     label: '2/2569',
     course: 'ENGSE301 สหกิจศึกษา',
@@ -31,6 +31,7 @@ window.SECOOP = {
 
   // ---------------- ประกาศ ----------------
   announcements: [
+    { date: '2026-11-09', important: true, roles: ['teacher'], title: 'กำหนดวันนิเทศทั้ง 2 ครั้งได้ในหน้าเดียว และมีตารางนิเทศของฉัน', body: 'กด "รับนิเทศ" แล้วยืนยัน ระบบเปิดฟอร์มกำหนดวันครั้งที่ 1 และ 2 ให้ทันที ครั้งที่ 2 กรอกตามแผนส่งคณะไว้ก่อน เปลี่ยนภายหลังได้ แท็บ "นักศึกษาของฉัน" มีตารางนิเทศเรียงตามวันและแบบปฏิทิน เตือนเมื่อนัดชนกันหรือต่างจังหวัด ระบบส่งอีเมลเตือนนัดล่วงหน้า 1 วัน และวันนิเทศกด "เข้านิเทศ" เพื่อกรอกแบบบันทึก' },
     { date: '2026-11-09', important: true, roles: ['teacher'], title: 'เปิดแบบบันทึกการนิเทศบนมือถือ และแท็บผลการนิเทศ', body: 'แท็บ "นักศึกษาของฉัน" กด "บันทึกผลนิเทศ" ใต้นัด ถ่ายรูปจากมือถือได้ทันที แบบบันทึกมีคำถามที่ใช้คุยกับนักศึกษาและพี่เลี้ยง ส่วนใหญ่แตะเลือก ส่วน จ เป็นคะแนนการนิเทศ 5 ข้อที่ใช้คิดผล S/U กรอกให้เสร็จภายใน 3 วันหลังนิเทศ อาจารย์ทุกท่านดูผลของทุกคนได้ที่แท็บ "ผลการนิเทศ" อ่านคู่มือการนิเทศก่อนรอบนิเทศครั้งที่ 1 (1 ธ.ค.)' },
     { date: '2026-11-09', important: true, roles: ['student'], title: 'ประกาศเกณฑ์การวัดผล S/U และสิ่งที่ต้องทำจึงผ่าน', body: 'ผ่าน (S) เมื่อทำกิจกรรมบังคับครบ ทุกส่วนได้ไม่น้อยกว่าร้อยละ 50 และรวมไม่น้อยกว่าร้อยละ 60 คะแนนมาจากผลประเมินของสถานประกอบการ 40% การนิเทศ 20–30% และรายงานกับการนำเสนอ 30–40% ตอนนิเทศให้เตรียมเล่างาน 10 นาที หน้าแรกของ SE-COOP มีเช็กลิสต์ว่าทำอะไรครบแล้ว และหลังนิเทศจะเห็นคำแนะนำจากอาจารย์' },
     { date: '2026-11-08', important: true, roles: ['teacher'], title: 'คณะขอแผนการนิเทศภายใน 12 พ.ย. 2569 อาจารย์เลือกนักศึกษาและกรอกวันนิเทศทั้ง 2 รอบภายในพุธที่ 11 พฤศจิกายน', body: 'คณะกำหนดรอบนิเทศที่ 1 ระหว่าง 1–30 ธ.ค. 2569 และรอบที่ 2 ระหว่าง 4 ม.ค. – 26 ก.พ. 2570 เข้าระบบ SE-COOP แท็บ "เลือกนักศึกษา" กด "รับนิเทศ" หรือ "รับทั้งบริษัท" แล้วไปที่แท็บ "นักศึกษาของฉัน" กรอกวัน ช่วงเวลา และรูปแบบ (ณ สถานประกอบการ หรือออนไลน์) ทั้ง 2 ครั้ง ระบบนำไปทำแผนการนิเทศแบบของคณะและแบบเสนองบประมาณให้ทันที ไม่ต้องกรอก Google Form' },

diff --git a/se-coop/help/index.html b/se-coop/help/index.html
@@ -35,7 +35,7 @@
     <h2 id="history">ประวัติการปรับปรุงพอร์ทัล</h2>
     <div class="table"><table>
       <thead><tr><th scope="col">ฉบับ</th><th scope="col">วันที่</th><th scope="col">สาระ</th></tr></thead>
-      <tbody><tr><td>1.6</td><td>9 พ.ย. 2569</td><td>คู่มืออาจารย์: ปุ่ม "รับนิเทศ" ใช้ได้เมื่อนักศึกษากรอกข้อมูลครบ เบอร์โทรและ LINE ข้างชื่อ ปุ่มรีเฟรช และอีเมลที่ระบบส่ง · คู่มือนักศึกษา: อีเมลแจ้งเมื่อมีอาจารย์รับนิเทศ และการแจ้งอาจารย์เมื่อยืนยันนัดหรือแก้ข้อมูล</td></tr><tr><td>1.5</td><td>9 พ.ย. 2569</td><td>คู่มือการนิเทศและแบบบันทึกสำหรับอาจารย์ (คำถามที่ใช้คุย ขั้นตอนพร้อมภาพ) · หน้าเกณฑ์การวัดผล S/U · คู่มือนักศึกษาเพิ่มการเตรียมรับนิเทศ คำแนะนำหลังนิเทศ และทำอย่างไรจึงผ่าน · ปรับประกาศการคุ้มครองข้อมูลส่วนบุคคลเรื่องบันทึกการนิเทศและรูปถ่าย</td></tr>
+      <tbody><tr><td>1.7</td><td>9 พ.ย. 2569</td><td>คู่มืออาจารย์: รับนิเทศแล้วกำหนดวันทั้ง 2 ครั้งทันที ยกเลิกรับนิเทศ ตารางนิเทศของฉัน (รายการและปฏิทิน) คำเตือนนัดชน ใช้วันที่นักศึกษาเสนอ อีเมลเตือนล่วงหน้า 1 วัน ปุ่ม "เข้านิเทศ" พร้อมภาพใหม่ 5 ภาพ · คู่มือการนิเทศ: เข้านิเทศตามวัน · คู่มือนักศึกษา: เห็นวันนิเทศทั้ง 2 ครั้ง ป้าย "แผน อาจเปลี่ยน" ขอเลื่อนพร้อมเสนอวัน และอีเมลเตือนล่วงหน้า</td></tr><tr><td>1.6</td><td>9 พ.ย. 2569</td><td>คู่มืออาจารย์: ปุ่ม "รับนิเทศ" ใช้ได้เมื่อนักศึกษากรอกข้อมูลครบ เบอร์โทรและ LINE ข้างชื่อ ปุ่มรีเฟรช และอีเมลที่ระบบส่ง · คู่มือนักศึกษา: อีเมลแจ้งเมื่อมีอาจารย์รับนิเทศ และการแจ้งอาจารย์เมื่อยืนยันนัดหรือแก้ข้อมูล</td></tr><tr><td>1.5</td><td>9 พ.ย. 2569</td><td>คู่มือการนิเทศและแบบบันทึกสำหรับอาจารย์ (คำถามที่ใช้คุย ขั้นตอนพร้อมภาพ) · หน้าเกณฑ์การวัดผล S/U · คู่มือนักศึกษาเพิ่มการเตรียมรับนิเทศ คำแนะนำหลังนิเทศ และทำอย่างไรจึงผ่าน · ปรับประกาศการคุ้มครองข้อมูลส่วนบุคคลเรื่องบันทึกการนิเทศและรูปถ่าย</td></tr>
         <tr><td>1.0</td><td>8 พ.ย. 2569</td><td>เปิดพอร์ทัล SE-COOP แทนหน้าแผนการนิเทศเดิม: หน้าแรก หน้าตามบทบาท คำถามพบบ่อย และประกาศการคุ้มครองข้อมูลส่วนบุคคล</td></tr></tbody>
     </table></div>
   </div>
